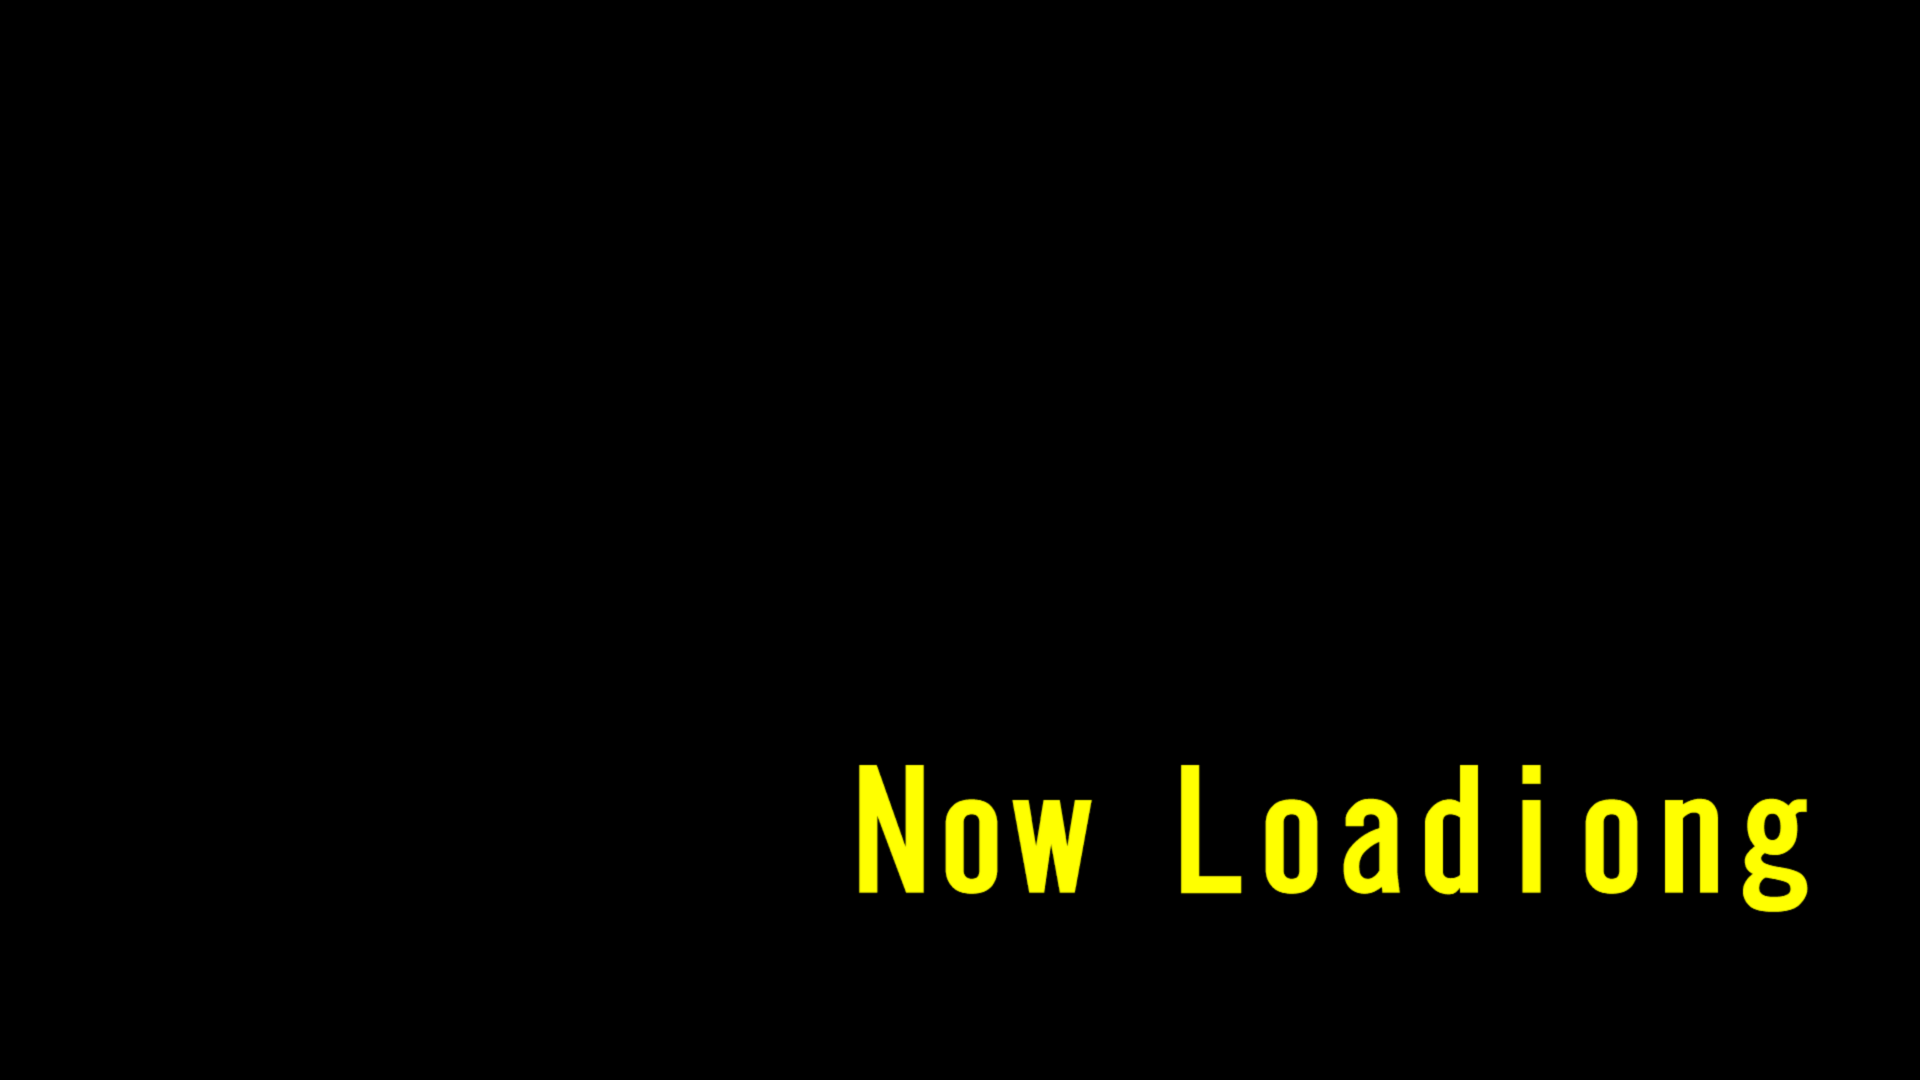
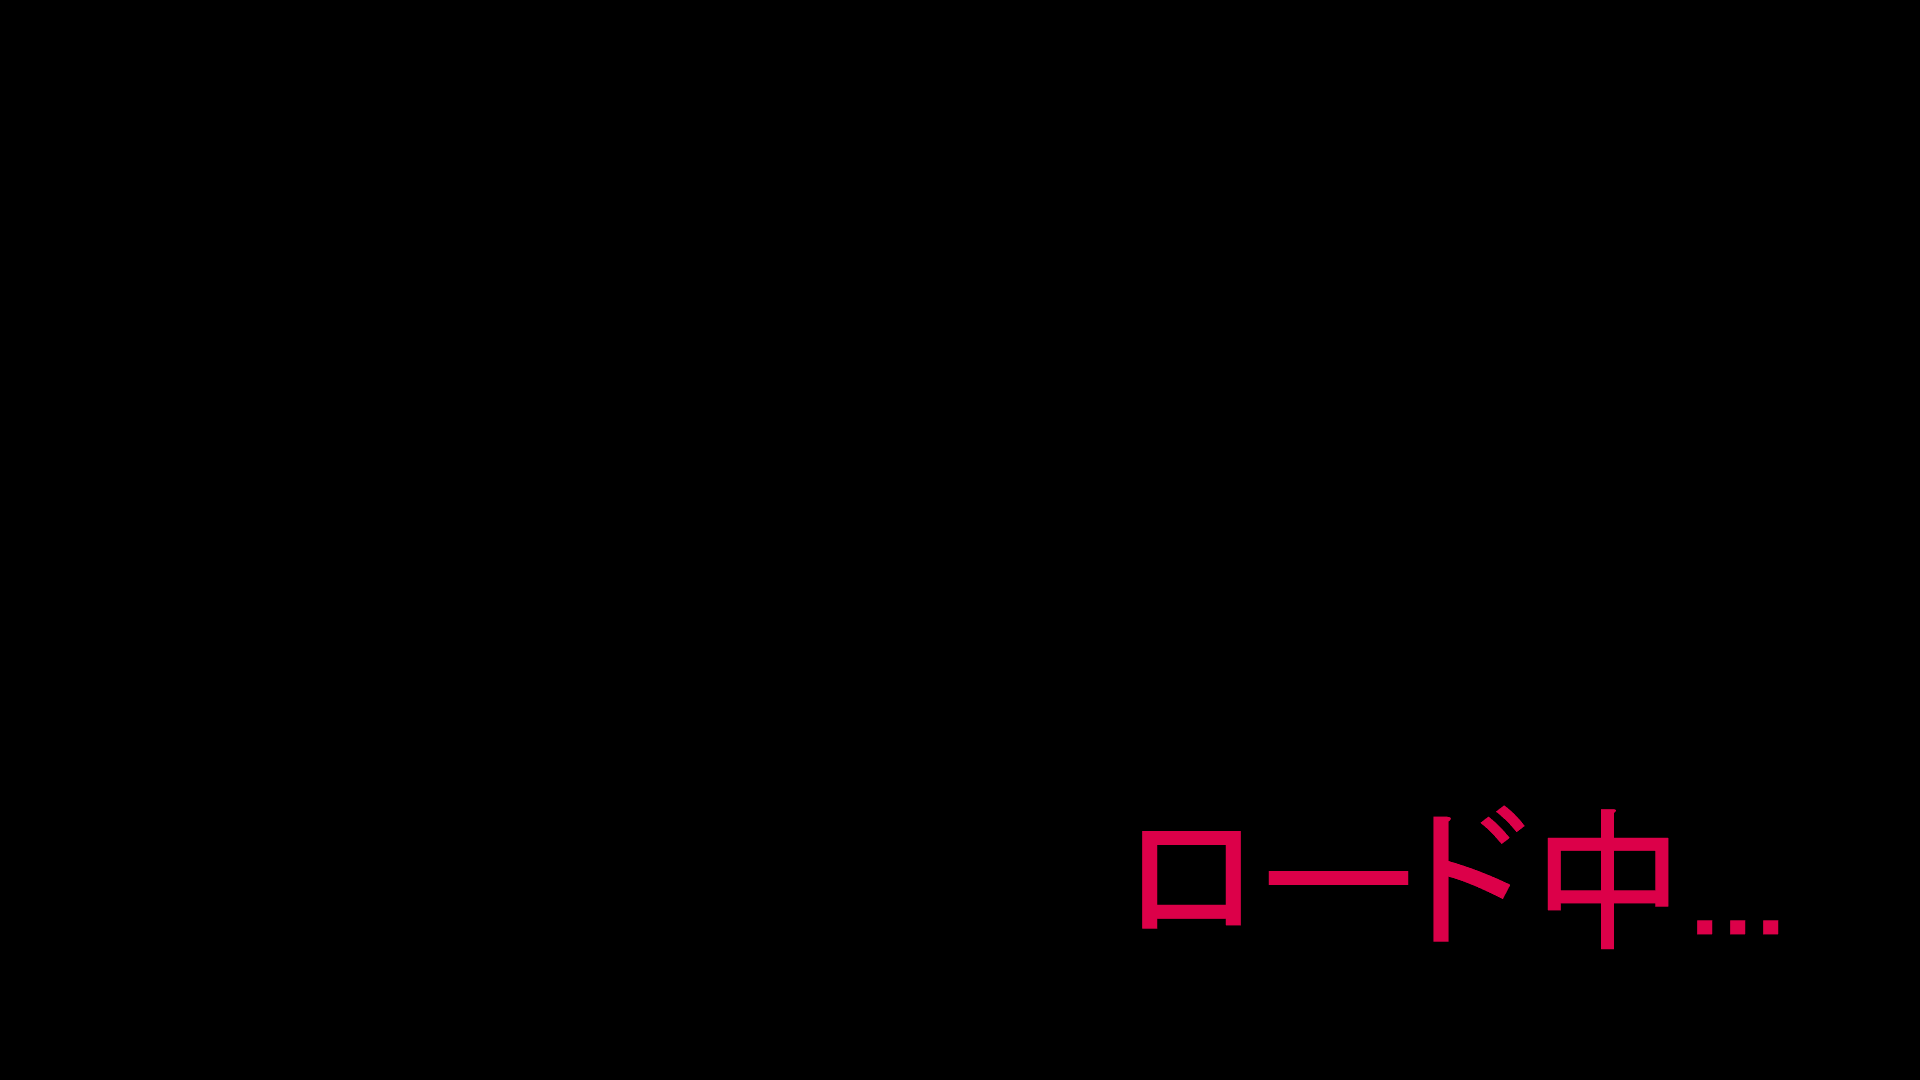
ロード画面の修正とタイトルのエフェクトをいれてはみた。

Changed region(s): [[0.4375, 0.7028, 0.9375, 0.8861]]

diff --git a/trickleLibrary/OG2D/src/Load/LoadLogo.cpp b/trickleLibrary/OG2D/src/Load/LoadLogo.cpp
@@ -2,14 +2,24 @@
 
 Load::Load()
 {
+	glClear(GL_COLOR_BUFFER_BIT | GL_DEPTH_BUFFER_BIT);
+	glfwSwapBuffers(OGge->window->GetWindow());
 	__super::Init((std::string)"load");
 	__super::SetDrawOrder(1.1f);
 	this->image.Create("LoadTest.png");
+	this->tex.Create("EffectTest.png");
+	this->param = std::make_shared<Param>();
+	this->param->animCnt = 0;
+	this->param->on = true;
+	/*std::thread thread(Render, &this->tex, this->param);
+	thread.detach();*/
 }
 
 Load::~Load()
 {
+	this->Delete();
 	this->image.Finalize();
+	this->tex.Finalize();
 }
 
 void Load::UpDate()
@@ -27,13 +37,40 @@ void Load::Draw()
 	glfwSwapBuffers(OGge->window->GetWindow());
 }
 
-void Load::Render2D()
+void Load::Render(Texture* tex,std::shared_ptr<Param>& param)
 {
-	this->draw = { OGge->camera->GetPos(),OGge->camera->GetSize() };
-	this->draw.OffsetSize();
-	this->src = { 0.f,0.f,this->image.GetTextureSize().x,this->image.GetTextureSize().y };
-	this->src.OffsetSize();
-	this->image.Draw(this->draw, this->src);
+	Texture* image = tex;
+	while (param->on && !glfwWindowShouldClose(OGge->window->GetWindow()))
+	{
+		glMatrixMode(GL_MODELVIEW);
+		glClear(GL_COLOR_BUFFER_BIT | GL_DEPTH_BUFFER_BIT);
+		glEnable(GL_BLEND);
+		glBlendFunc(GL_SRC_ALPHA, GL_ONE_MINUS_SRC_ALPHA);
+		glMatrixMode(GL_PROJECTION);
+		glLoadIdentity();
+		glOrtho(OGge->camera->GetPos().x, OGge->camera->GetSize().x, OGge->camera->GetSize().y, OGge->camera->GetPos().y, -1.0f, 1.0f);
+		std::cout << param->animCnt << std::endl;
+		param->animCnt++;
+		if (param->animCnt >= 100)
+		{
+			param->animCnt = 0;
+		}
+	/*	Box2D d(OGge->camera->GetSize().x - 400, OGge->camera->GetSize().y - 300, 256.f, 256.f);
+		d.OffsetSize();
+		Box2D s((param->animCnt / 10) * 256, 270.f, 256.f, 270.f);
+		s.OffsetSize();*/
+		Box2D d(0, 0, 1920, 1080);
+		d.OffsetSize();
+		Box2D s(0.f, 0.f, image->GetTextureSize().x, image->GetTextureSize().y);
+		image->Draw(d, s);
+		glfwSwapBuffers(OGge->window->GetWindow());
+		glfwPollEvents();
+	}
+}
+
+void Load::Delete()
+{
+	this->param->on = false;
 }
 
 Load::SP Load::Create(bool flag)

diff --git a/trickleLibrary/OG2D/src/CameraManager/CameraManager.cpp b/trickleLibrary/OG2D/src/CameraManager/CameraManager.cpp
@@ -38,7 +38,7 @@ void CameraManager::move()
 						OGge->camera->GetPos().y + this->Range.y,
 						OGge->camera->GetPos().x + this->Range.x + this->Range.w,
 						OGge->camera->GetPos().y + this->Range.y + this->Range.h };
-	OG::LineHitDraw(&this->RealRange);
+	//OG::LineHitDraw(&this->RealRange);
 	if (this->target != nullptr)
 	{
 		this->pretarget = { this->target->position,this->target->Scale };

diff --git a/trickleLibrary/OG2D/src/Effect/Effect.cpp b/trickleLibrary/OG2D/src/Effect/Effect.cpp
@@ -42,6 +42,7 @@ void Effect::Render2D()
 	this->src.OffsetSize();
 	this->color.alpha = this->alpha;
 	this->image->Draw(this->draw, this->src, this->color);
+	
 }
 
 Effect::SP Effect::Create(const Vec2 & pos, const Vec2 & size, const Vec2 & srcSize, const unsigned int number, const unsigned int time, const unsigned int onetime, const std::string& tag, const bool flag)

diff --git a/trickleLibrary/OG2D/src/Task/Task_Title.h b/trickleLibrary/OG2D/src/Task/Task_Title.h
@@ -40,6 +40,8 @@ class Title :public TaskObject
 	Texture texClose;
 	Texture texPause;
 
+	Texture texEffect;
+
 	Texture GierLogo;
 	Texture flowerLogo;
 
